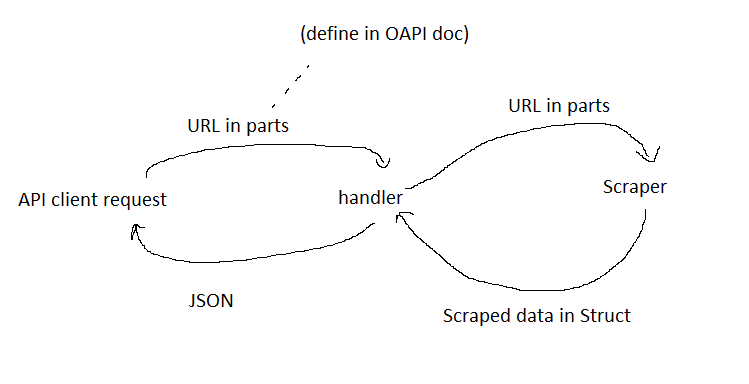
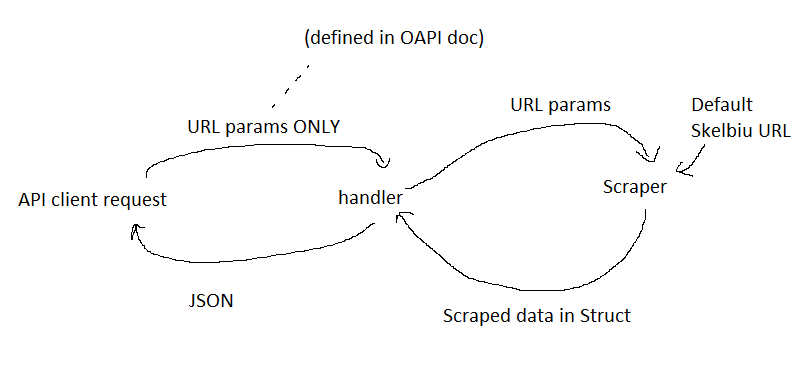
Continue implementation of scraper. Get rid of URL passing to API/scraper, instead relying on `category_id`

diff --git a/internal/scraper/scraper.go b/internal/scraper/scraper.go
@@ -2,53 +2,70 @@ package scraper
 
 import (
 	"errors"
+	"os"
 	"strconv"
+	"strings"
+	"sync"
+	"time"
 
 	"github.com/adomascx/Skelbiu_API/internal/model"
 	"github.com/gocolly/colly"
 )
 
-func trimTrailingSlash(path string) string {
-	lastIdx := len(path) - 1
-	if path[lastIdx] == '/' {
-		return path[:lastIdx]
-	}
-	return path
-}
+const SKELBIU_URL = "https://www.skelbiu.lt/skelbimai/"
 
-func ScrapeListings(baseURL string, query model.QueryParams, pages int) ([]model.Listing, error) {
-	// Handle incorrect user input
-	if len(baseURL) == 0 {
-		return nil, errors.New("Base URL is empty")
-	}
+// If pages is set to 0, defaults to 5
+func ScrapeListings(query model.QueryParams, pages int) ([]model.Listing, error) {
 	if query == (model.QueryParams{}) {
 		return nil, errors.New("No query given")
 	}
-	if pages <= 0 {
-		return nil, errors.New("Pages is less than or equal to 0")
+	if pages < 0 {
+		return nil, errors.New("Pages must be >= 0")
+	}
+
+	// Default pages value and error handling
+	if pages == 0 {
+		pages = 5
 	}
 
 	// Listings init
 	listings := make([]model.Listing, 24*pages)
 
-	collector := colly.NewCollector()
+	// Set concurrency based on env file.
+	// May result in blocked requests.
+	useConcurrency := strings.EqualFold(os.Getenv("USE_CONCURRENCY"), "true")
+	collector := colly.NewCollector(colly.Async(useConcurrency))
 
-	collector.OnHTML(".standard-list-item", func(h *colly.HTMLElement) {
-		listing := model.Listing{
-			Link:        h.Attr("href"),
-			Title:       h.ChildText(".title"),
-			Description: h.ChildText(".first-dataline"),
-			Date:        h.ChildText(".second-dataline"),
-		}
-
-		Price, _ := strconv.ParseFloat(h.ChildText(".price"), 64)
-		listing.Price = Price
-
-		listings = append(listings, listing)
+	collector.Limit(&colly.LimitRule{
+		Parallelism: 2,
+		Delay:       1 * time.Second,
 	})
 
-	url := trimTrailingSlash(baseURL) + "/" + strconv.Itoa(pages) + "?" + query.Encode()
-	collector.Visit(url)
+	var mutex sync.Mutex
+
+	for page := 1; page <= pages; page++ {
+
+		collector.OnHTML(".standard-list-item", func(h *colly.HTMLElement) {
+			listing := model.Listing{
+				Link:        h.Attr("href"),
+				Title:       h.ChildText(".title"),
+				Description: h.ChildText(".first-dataline"),
+				Date:        h.ChildText(".second-dataline"),
+			}
+
+			Price, _ := strconv.ParseFloat(h.ChildText(".price"), 64)
+			listing.Price = Price
+
+			mutex.Lock()
+			listings = append(listings, listing)
+			mutex.Unlock()
+		})
+
+		url := SKELBIU_URL + strconv.Itoa(page) + "?" + query.String()
+		collector.Visit(url)
+
+		collector.Wait()
+	}
 
 	return listings, nil
 }

diff --git a/internal/scraper/scraper_test.go b/internal/scraper/scraper_test.go
@@ -9,34 +9,10 @@ import (
 
 // Temp non-functional test
 func TestGetSkelbiuHTML(t *testing.T) {
-	result, err := ScrapeListings("https://en.wikipedia.org/wiki/List_of_lists_of_lists", model.QueryParams{}, 1)
+	result, err := ScrapeListings(model.QueryParams{}, 1)
 	if err != nil {
 		t.Errorf("could not do ScrapeListings(): %v\n", err)
 	}
 
 	fmt.Println(result)
-}
-
-func TestTrimTrailingSlash(t *testing.T) {
-	testCases := []struct {
-		input string
-		want  string
-	}{
-		{
-			input: "en.wikipedia.org/",
-			want:  "en.wikipedia.org",
-		},
-		{
-			input: "skelbiu.lt",
-			want:  "skelbiu.lt",
-		},
-	}
-	for _, tC := range testCases {
-		t.Run(tC.input, func(t *testing.T) {
-			have := trimTrailingSlash(tC.input)
-			if have != tC.want {
-				t.Errorf("got %s, want %s", have, tC.want)
-			}
-		})
-	}
 }
